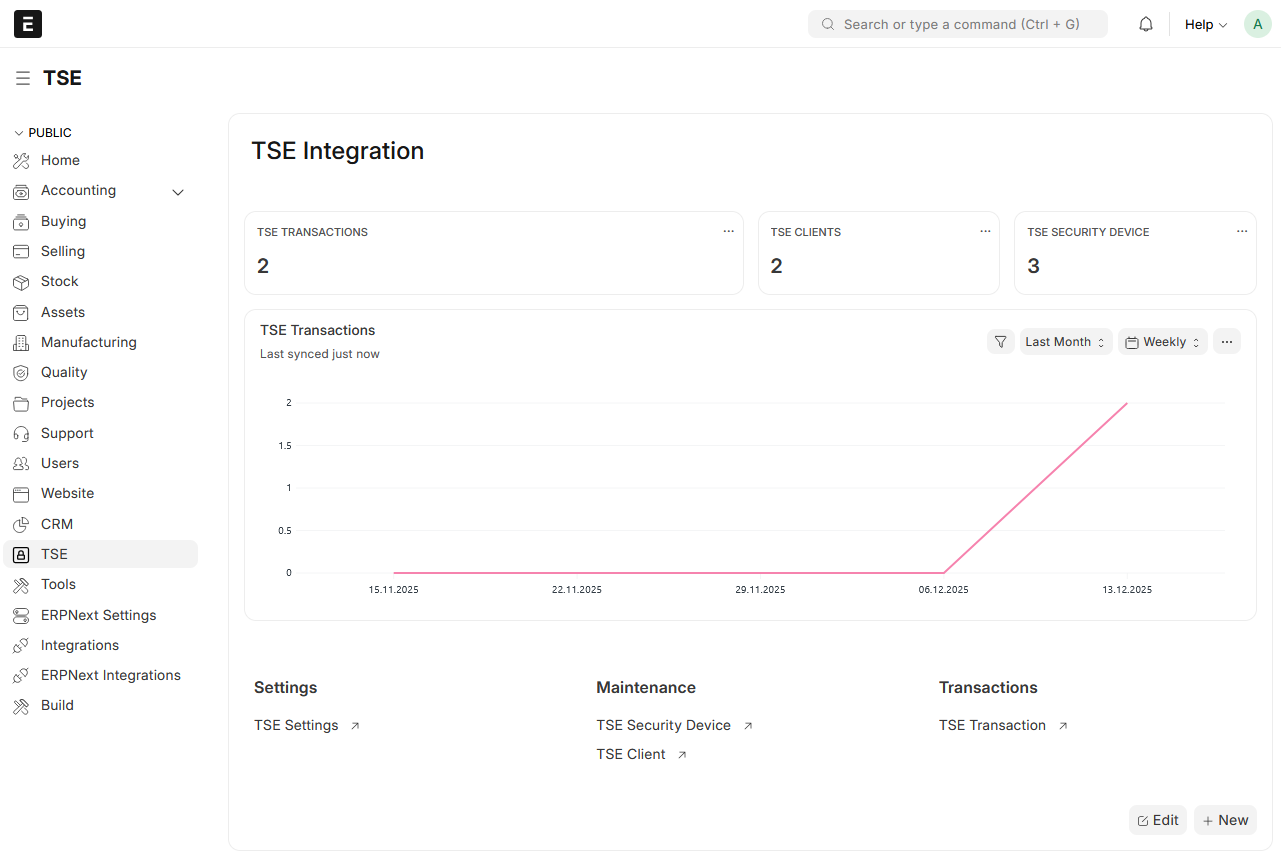
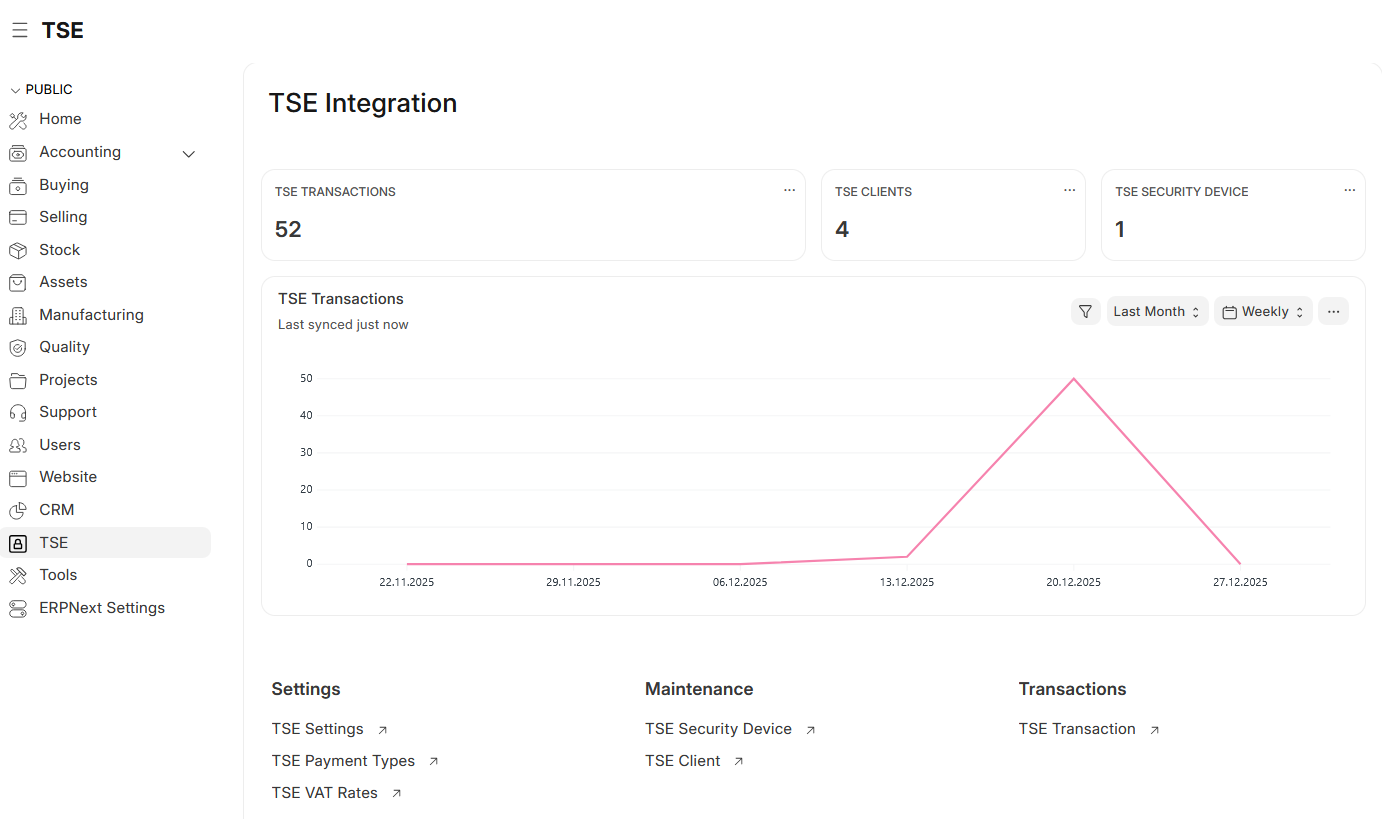
docs: Erweiterung der Dokumentation zur Konfiguration und Nutzung

diff --git a/README.md b/README.md
@@ -54,7 +54,43 @@ Detaillierte Anleitungen finden Sie hier:
 Diese Kurzübersciht zeigt, wie Sie die TSE-APP in ERPNext nutzen.
 
 ### Allgemeine Konfiguration
-#TODO
+Bevor TSE-Security-Devices angelegt werden, muessen die globalen Einstellungen
+und die fachlichen Mappings gesetzt werden. Ohne diese Basis ist keine
+signierte POS-Transaktion moeglich.
+
+#### **TSE Settings konfigurieren**
+
+<p>
+  <img src="docs/assets/TSE-Settings/TSE_SETTINGS_PAGE.png" alt="Übersichts Seite der Einstellungen für TSE API Key und Secret"/>
+</p>
+
+- In ERPNext das DocType `TSE Settings` oeffnen (Workspace: ERPNext TSE).
+- `TSE Provider` auf **Fiskaly** setzen.
+- `Environment` waehlen: **TEST** fuer erste Tests, **LIVE** fuer Produktion.
+- `API Key` und `API Secret` aus dem fiskaly Dashboard eintragen.
+- `Base URL` und `DSFinV-K Base URL` nur anpassen, falls bewusst abweichend.
+- `Activated` aktivieren, speichern und danach ueber **Test Auth** die Verbindung pruefen.
+- Pruefen, ob `Organization ID`, Token-Status und Environment gesetzt werden.
+
+#### **Steuer- und Zahlungsarten mappen**
+
+<p>
+  <img src="docs/assets/TSE-Settings/TSE_PAYMENT_TYPES.png" alt="Verknüpfungen der hinterlegten Steuer Accounts"/>
+</p>
+
+- `TSE Payment Type`: `CASH` und `NON_CASH` den ERPNext-Zahlungsarten
+  (Mode of Payment) zuordnen.
+
+<p>
+  <img src="docs/assets/TSE-Settings/TSE_VAT_RATES.png" alt="Verknüpfungen der hinterlegten Steuer Accounts"/>
+</p>
+
+- `TSE VAT Rate`: vorhandene VAT-Codes mit den passenden Steuerkonten verknuepfen
+  (Account Type = Tax). Aktuell werden 19% und 7% verarbeitet.
+
+Wenn diese Schritte abgeschlossen sind, kann die eigentliche TSE-Konfiguration
+(Security Device, Clients, POS-Profile) gestartet werden.
+Details: [Erstkonfiguration TSE in ERPNext](/docs/guides/de/configuration.md)
 
 ### TSE Konfigurationen
 
@@ -75,20 +111,41 @@ Zusätzlich werden alle Status-Änderungen zur Einsicht des Nutzers Dokumentiert
 </p>
 
 ### POS-Profile Einstellungen
-#TODO
+Jedes POS-Profile muss genau einem TSE Client zugeordnet sein (1:1).
+Der TSE Client wird wiederum einem TSE Security Device zugewiesen.
+
+**Vorgehen**
+- Im DocType `TSE Client` einen neuen Client anlegen und ein `TSE Security Device`
+  auswaehlen.
+- Im selben Dokument das gewuenschte `POS Profile` setzen.
+- Das Feld `TSE Client` im POS Profile wird dabei automatisch gepflegt. Pruefe,
+  dass der Link gesetzt ist.
+
+Details: [Erstkonfiguration TSE in ERPNext](/docs/guides/de/configuration.md)
 
 ### Signierte POS-Belege
-#TODO
+Nach dem Absenden einer POS Invoice startet die App automatisch die
+TSE-Transaktion und beendet sie mit den Transaktionsdaten.
+
+**Woran erkenne ich eine erfolgreiche Signatur**
+- In der POS Invoice ist das Feld `TSE Transaction` gefuellt.
+- Im verknuepften Dokument sind Status, Signaturdaten und `qr_code_data` sichtbar.
+- Beim Druck das Print Format **POS Invoice TSE** verwenden (siehe unten).
+
+Details: [Nutzung der TSE in Produktion](/docs/guides/de/usage.md)
 
 ### Print Format
 
 Das Print Format "POS Invoice TSE" erweitert den Standard-POS-Beleg um die rechtlich relevanten TSE-Daten. Am Belegende wird ein QR-Code angezeigt, der aus dem Feld `qr_code_data` der verknüpften TSE-Transaktion erzeugt wird und die signierten Informationen enthält. 
 Zusätzlich werden die in der TSE-Transaktion gespeicherten Daten ausgegeben:
-- `transaction_id`
 - `transaction_number`
 - `signature_counter`
 - `start_time`
 - `end_time`
+
+<p>
+  <img src="docs/assets/TSE-Transaction/PRINT_FORMAT_QR_CODE.png" alt="Print Format mit QR-Code und Signatur Daten"/>
+</p>
 
 Dadurch sind sowohl der QR-Code als auch die zugehörigen Signatur- und Transaktionsdaten direkt auf dem Beleg.
 Rechtlich gesehen reicht auch nur der QR-Code zur Anageb der TSE Transaktion.
